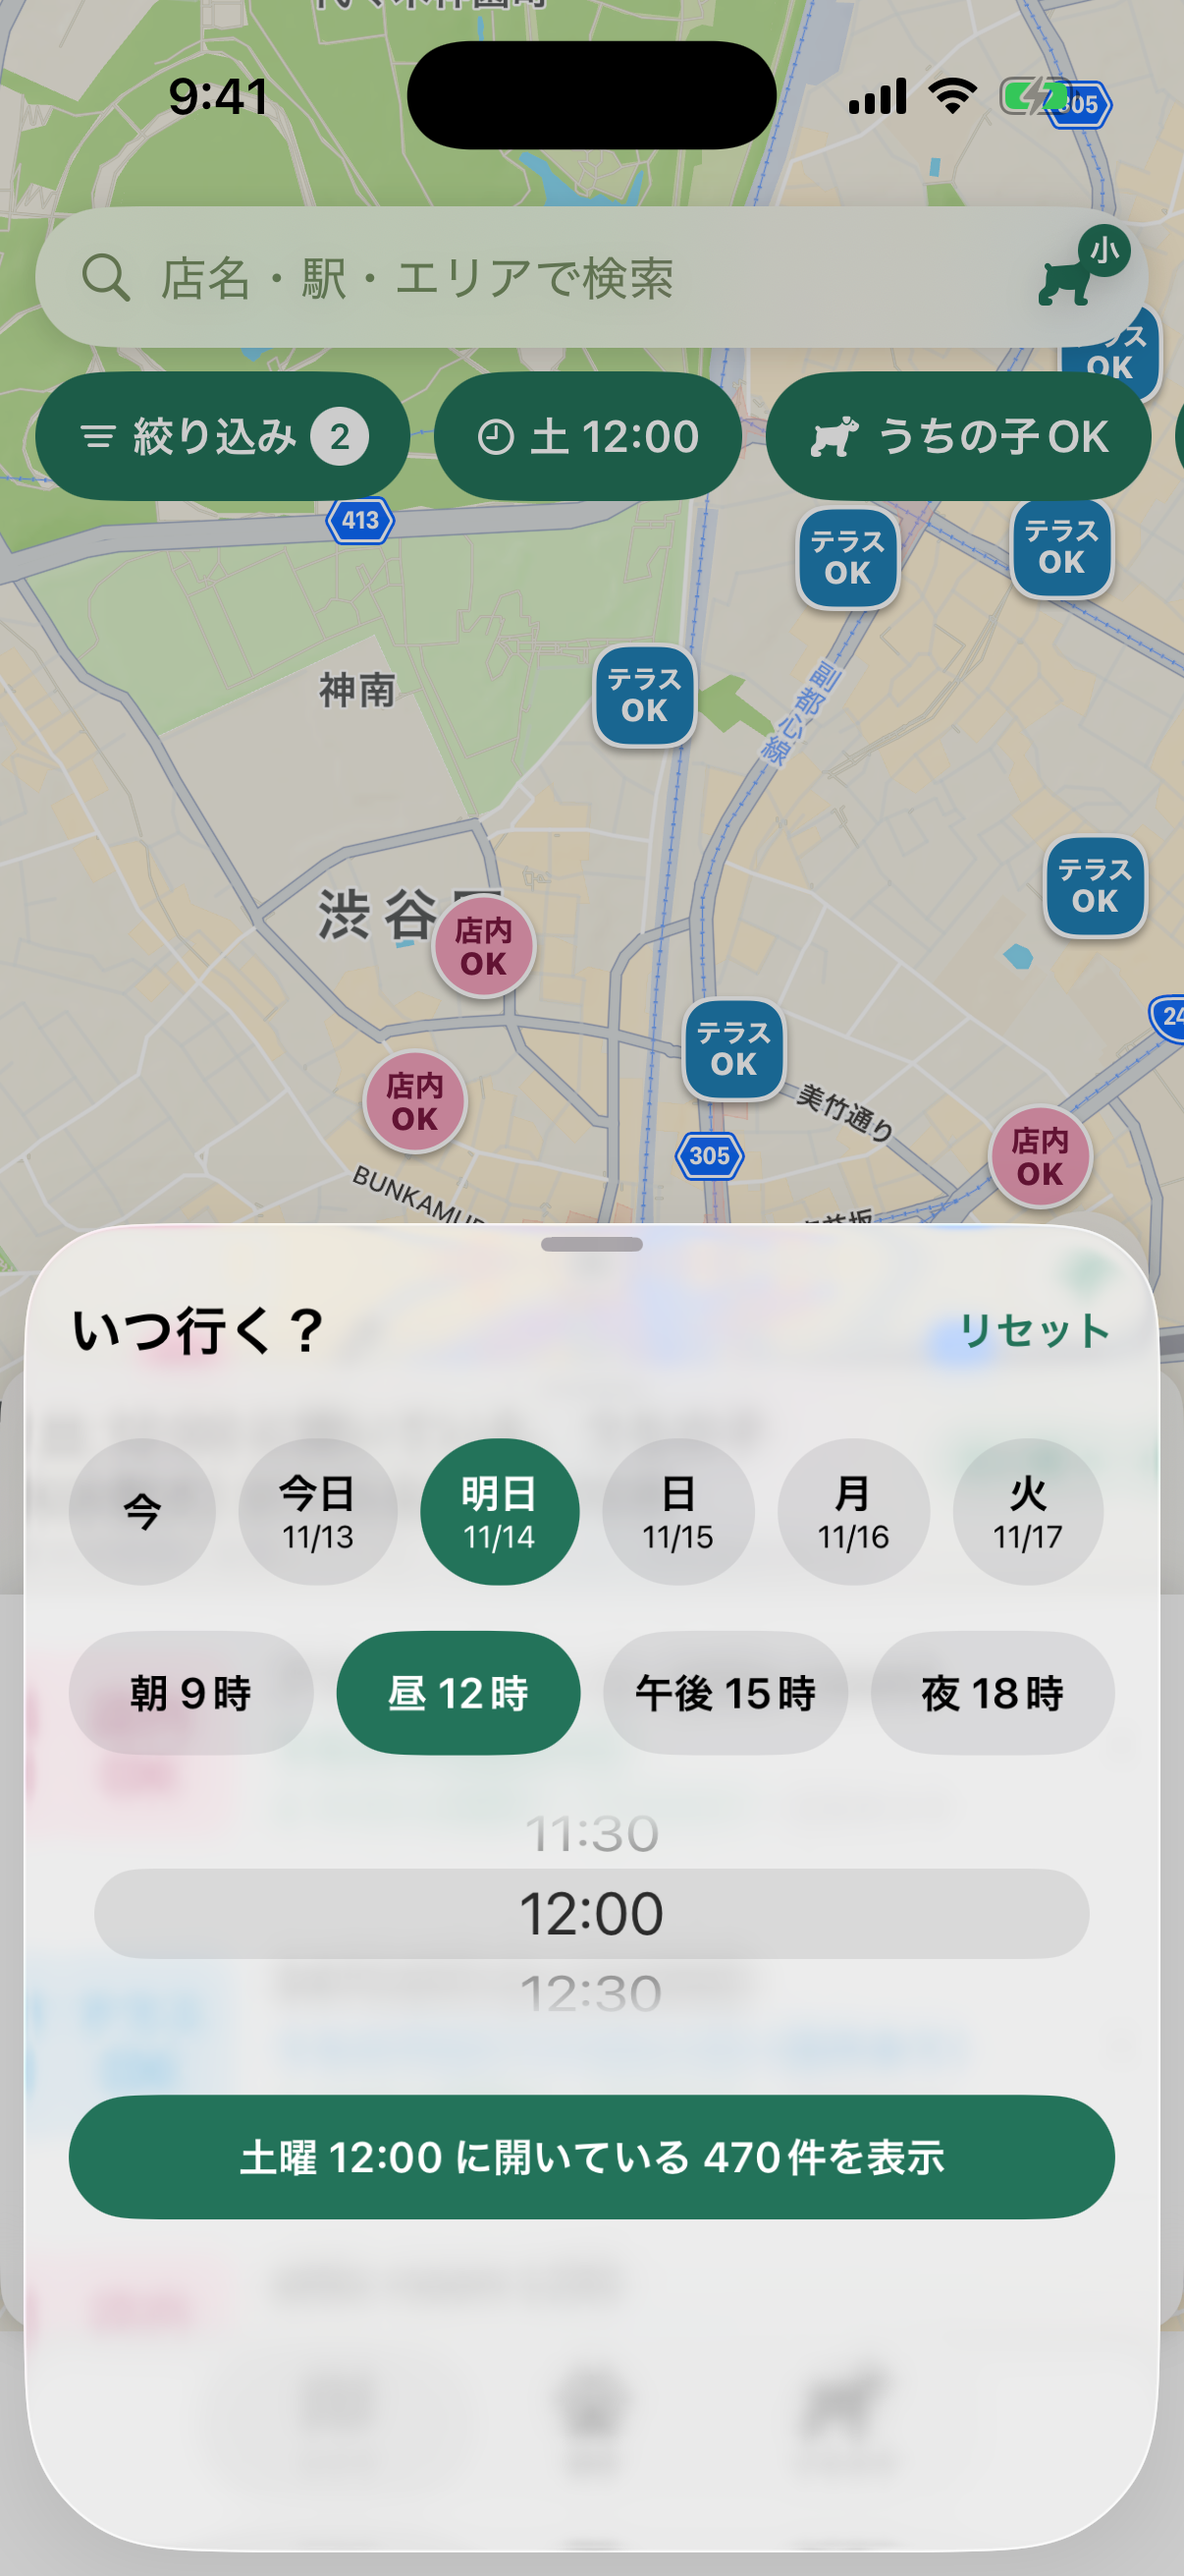
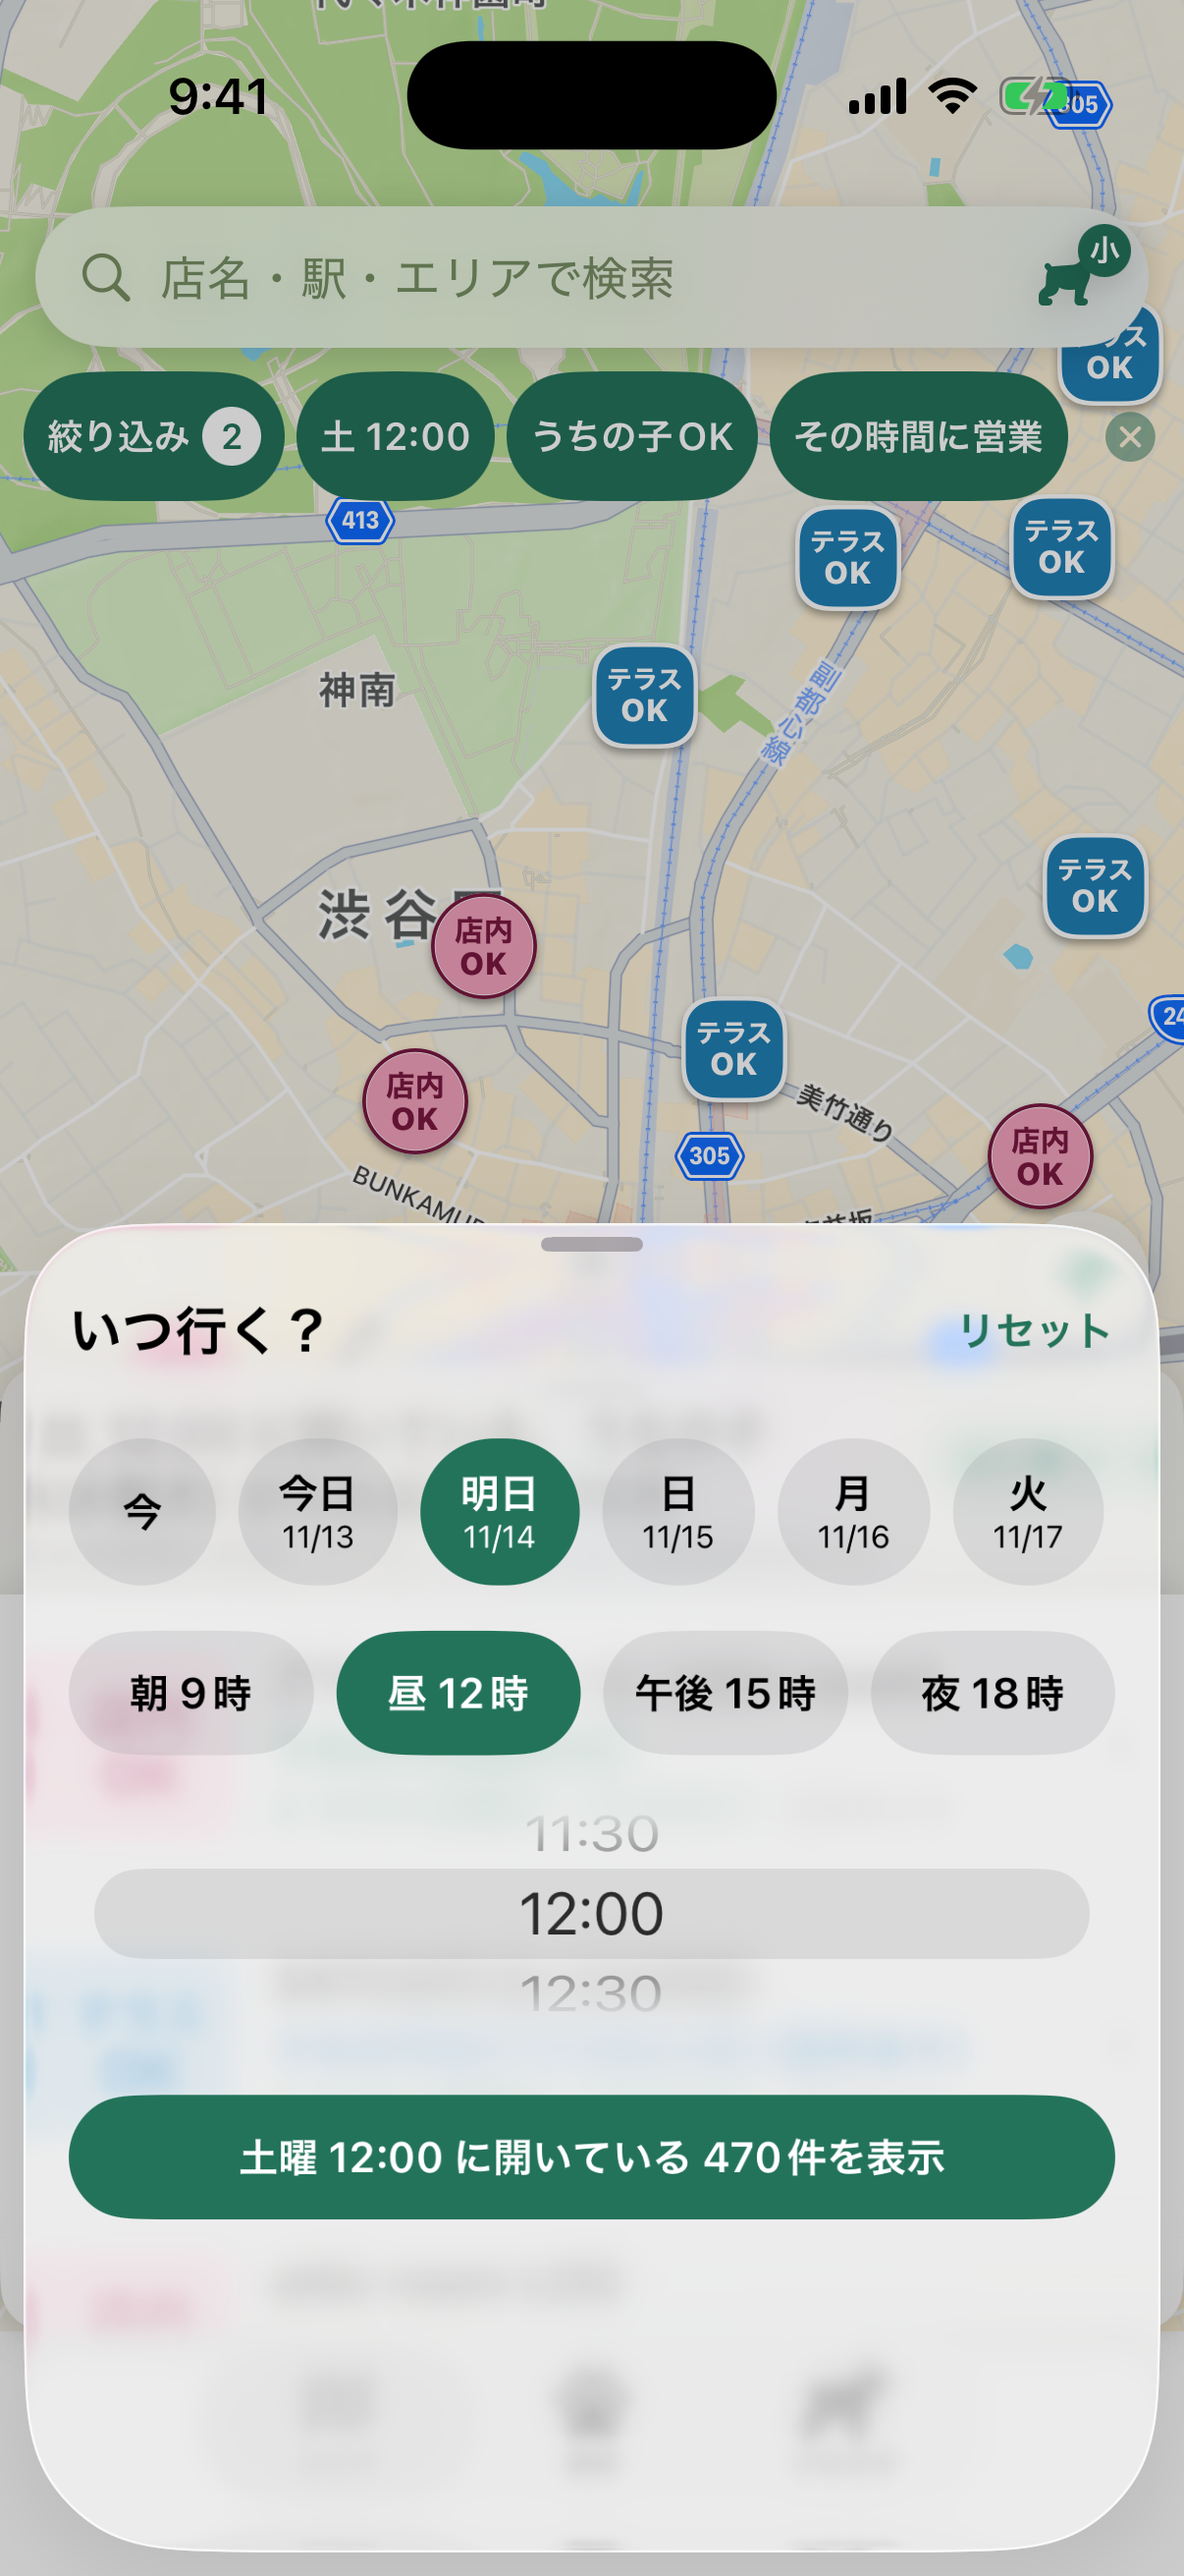
docs: v1.1 のスクリーンショット7枚（6.9・6.3インチ）と README の画像を撮り直す
Claude-Session: https://claude.ai/code/session_019zkcAEuFg4zVZq5VyKun4C

diff --git a/docs/appstore/screenshots.md b/docs/appstore/screenshots.md
@@ -2,6 +2,7 @@
 
 > 2026-10-26 新規（再設計 段階4）。提出手順の全体は `submission-checklist.md` §6。文面は `store-listing.md`。
 > 2026-11-13: ピンの表記（店内OK＝薄いピンクの丸に「店内OK」、テラス＝青い角丸四角に「テラスOK」）に合わせて撮り直し済み。画像は `docs/appstore/screenshots/`（6.9インチ・1320 × 2868）と `docs/appstore/screenshots/6.3/`（6.3インチ・1206 × 2622）にあり、そのまま App Store Connect にドラッグできる（下の「撮影の記録」）。
+> 2026-11-14（v1.1）: チップ4つ・ピンクのピンの縁・横にめくれるカード・エリア表示に合わせて全7枚を撮り直し済み（6.9インチ・6.3インチとも。透明の情報なしの PNG）。`01_now`〜`05_saved` は v1.0 と同じ場面、`06_compare`（カードを横にめくる）と `07_areas`（引いたときのエリアの札）が新しい2枚。
 
 ## 仕様
 
@@ -20,7 +21,14 @@
 | 4 | **根拠が見える** | 犬OKの根拠は、出典と確認日つき | 店の詳細の答えのカード下端の根拠の1行（例:「食べログで確認・2026年7月」「公式サイトで確認・2026年8月」。出典の種類は店ごとに違う）が見える状態、または根拠をタップして開く「確認の根拠」シート（出典の種類・確認日・参考記事） |
 | 5 | **保存して計画する** | 行きたい／行ったを、この端末に保存 | 保存タブ「行きたい（N）」に 3〜4 店が並ぶ（行には営業の行と徒歩の目安）。サンプルとして実在店が並ぶので、特定の店を宣伝する並びにならないよう注意 |
 
-余裕があれば 6〜7 枚目: ⑥ ピンをタップしたときの店のカード（答えの1行と、経路・電話・行きたい・共有）、⑦「うちの子」タブ（設定とピンの見かた＝色と形の凡例）。
+v1.1 で足した2枚（並べる順は 1・6・2・3・4・7・5 がおすすめ。新しい機能を前の方で見せる）:
+
+| # | 場面 | キャプション案 | 画面の状態 |
+|---|---|---|---|
+| 6 | **比べて決める** | カードを横にめくって、近くのお店を見比べる | ピンのカードが開き、左上に「5 / 805」、右に隣のカードの端が見える。選んだピンが大きくなっている |
+| 7 | **エリアの数が分かる** | 地図を引くと、エリアごとのお店の数 | 東京全体が見えるくらい引いた地図に「渋谷・恵比寿 119」などの札が並ぶ |
+
+v1.0 のときの案（参考）: ⑥ ピンをタップしたときの店のカード（答えの1行と、経路・電話・行きたい・共有）、⑦「うちの子」タブ（設定とピンの見かた＝色と形の凡例）。
 
 ## 準備（ターミナル）
 
